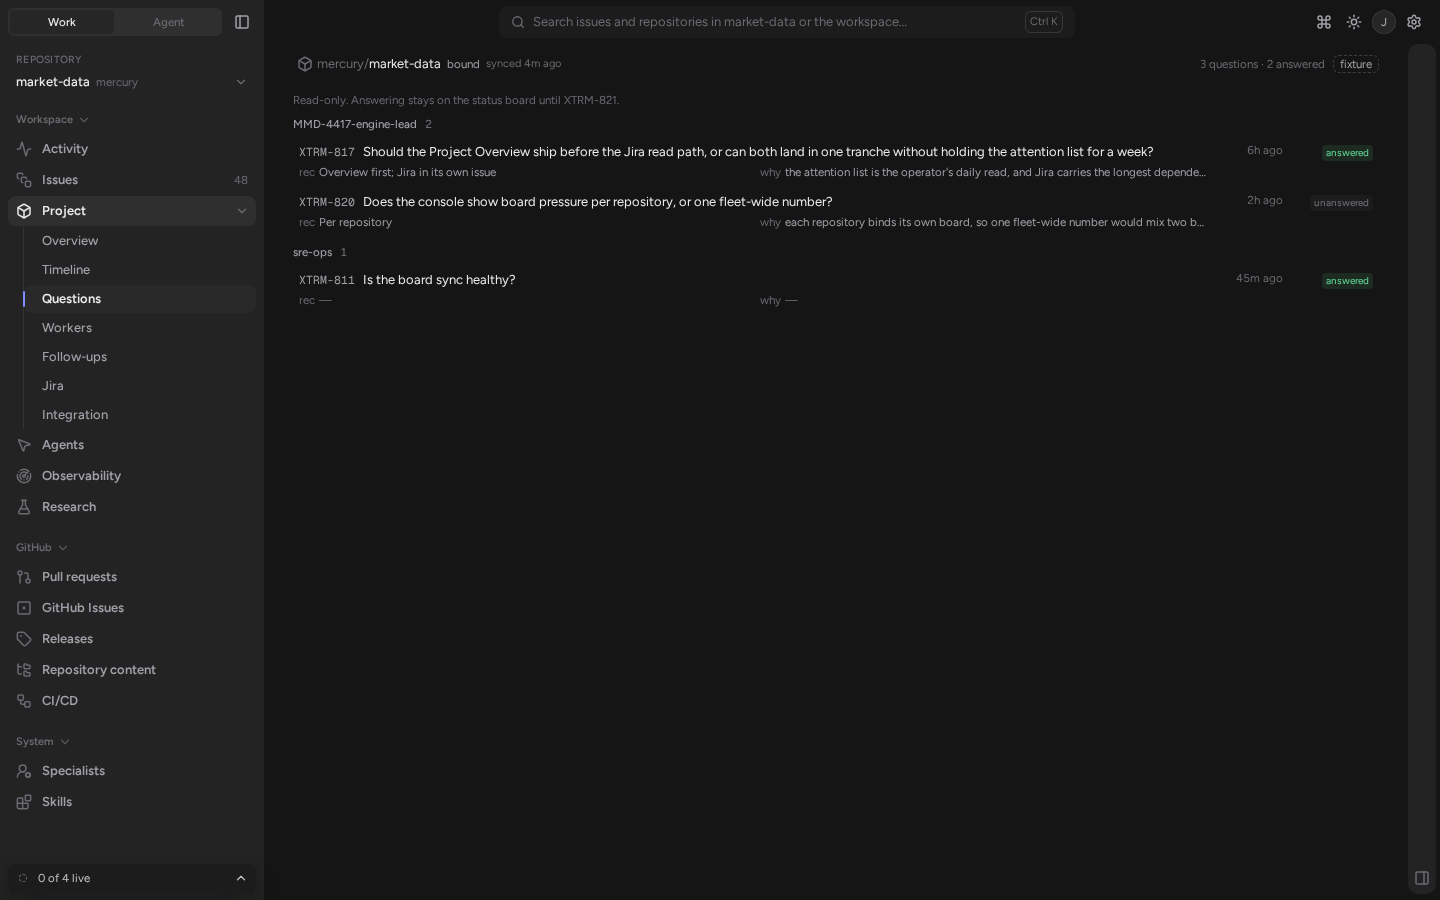
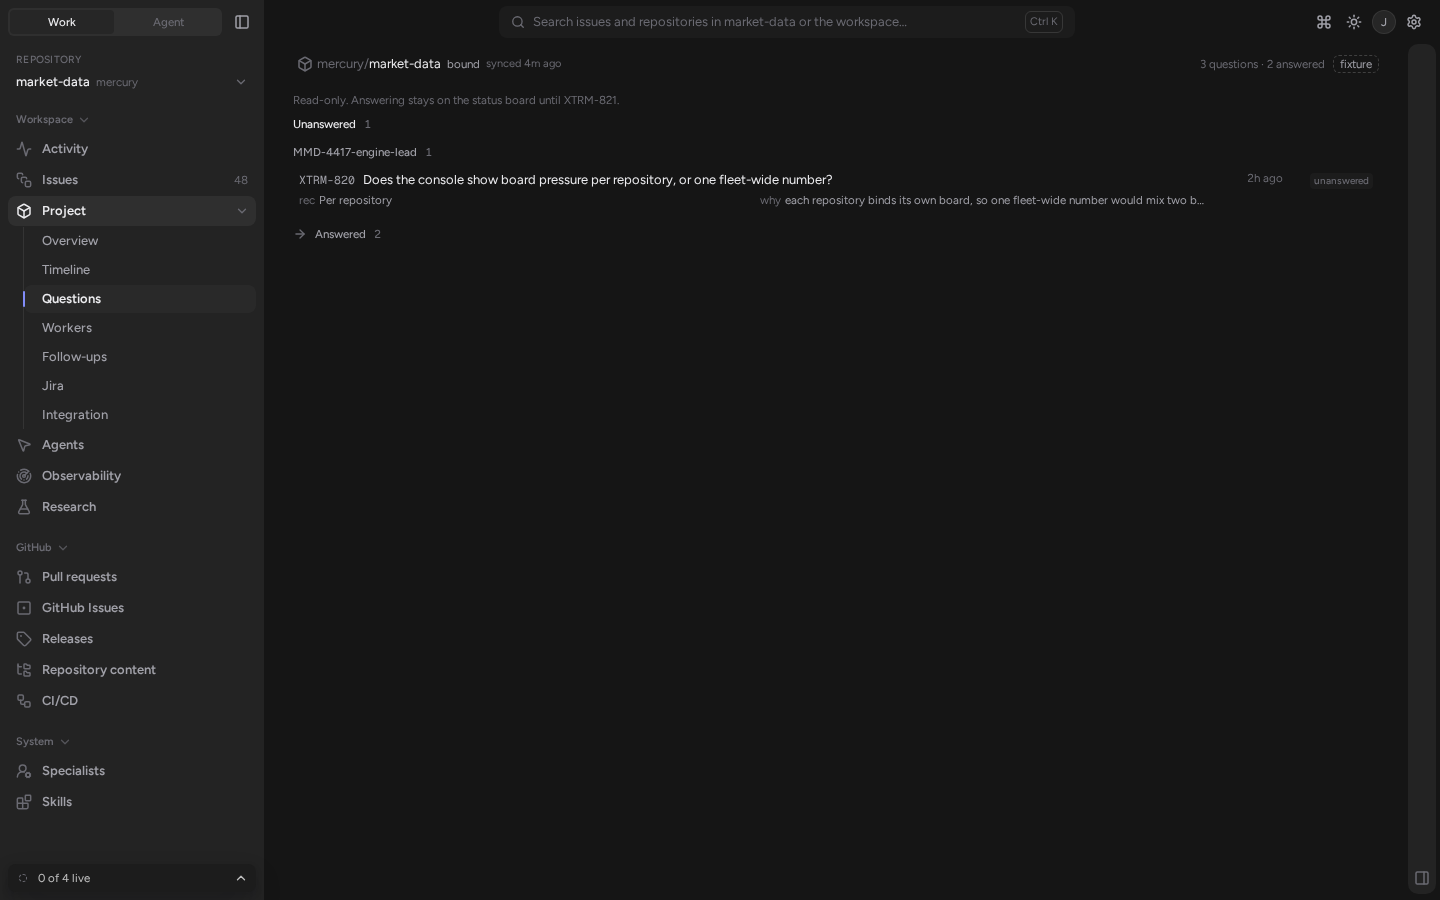
fix(xtrm-app): lead Questions with the unanswered queue, answered backlog collapsed (XTRM-913)
On the deployed console the Questions page listed 68 questions with the 62 answered
ones first, so the operator scrolled past the answered backlog to find the six that
still need an answer.

- The rows are split by `answers/<qid>` presence: the unanswered section leads, open,
  and the answered section follows as a native `<details>` closed by default whose
  summary carries its count.
- Owner grouping is kept inside both sections. The groups are now ordered by their own
  oldest question, so a section reads oldest first (owner name breaks a tie); rows
  inside a group stay oldest first.
- The toolbar count is unchanged: `<n> questions · <m> answered`.
- Tests: the shared fixture is untouched; a test-local board adds three unanswered
  questions under three owners at -10h, -5h and -0.5h, proving cross-owner age order,
  the closed default, the section counts and that the sections carry every row. The
  Playwright screenshot spec screenshots the collapsed page and the opened backlog.

Verified: `npx vitest run src/project` 70/70 pass (12 files); `npx tsc --noEmit` clean;
`npx playwright test e2e/project-questions.spec.ts` 2/2 pass (screenshots regenerated).

Changed region(s): [[0.1875, 0.1244, 0.8438, 0.3111]]

diff --git a/packages/xtrm-app/src/project/questions/QuestionsSurface.test.tsx b/packages/xtrm-app/src/project/questions/QuestionsSurface.test.tsx
@@ -1,14 +1,13 @@
 import { QueryClient } from "@tanstack/react-query";
 import { RouterProvider, createMemoryHistory } from "@tanstack/react-router";
-import { render, screen, waitFor } from "@testing-library/react";
+import { fireEvent, render, screen, waitFor } from "@testing-library/react";
 import { describe, expect, it, vi } from "vitest";
 import { fixtureAdapters } from "../../adapters/index.tsx";
 import { FIXTURE_BOARD_REPO, createStatusBoardFixtureAdapter } from "../../adapters/status-board/fixture.ts";
-import type { StatusBoardAdapter } from "../../adapters/status-board/types.ts";
+import type { BoardRecord, Question, StatusBoardAdapter } from "../../adapters/status-board/types.ts";
 import { createAppRouter } from "../../app/router.tsx";
 
-function renderQuestions() {
-  const board = createStatusBoardFixtureAdapter();
+function renderBoard(board: StatusBoardAdapter) {
   const history = createMemoryHistory({ initialEntries: [`/rep/${FIXTURE_BOARD_REPO}/project/questions`] });
   const queryClient = new QueryClient({ defaultOptions: { queries: { retry: false } } });
   const router = createAppRouter({ adapters: { ...fixtureAdapters, statusBoard: board }, history, queryClient });
@@ -16,8 +15,45 @@ function renderQuestions() {
   return board;
 }
 
+function renderQuestions() {
+  return renderBoard(createStatusBoardFixtureAdapter());
+}
+
+/** A synthetic board question, in the shape the document mapper hands a surface. */
+function question(path: string, doc: Omit<Question, "owner">): BoardRecord<Question> {
+  // `mapQuestionDocument` names the owner from the document's path segment; the surface groups by
+  // `doc.owner`, so a synthetic row carries the same value.
+  return { path, id: `test-${doc.id}`, createdAt: null, updatedAt: null, doc: { ...doc, owner: path.split("/")[1]! }, gaps: [] };
+}
+
+/** The fixture plus three unanswered questions of different ages, under three owners. */
+function olderBoard(): StatusBoardAdapter {
+  const base = createStatusBoardFixtureAdapter();
+  const at = (hours: number) => new Date(Date.now() - hours * 3_600_000).toISOString();
+  const extra = [
+    question("questions/sre-ops", { id: "q-201-oldest", ref: "XTRM-801", q: "Is the oldest open question still open?", at: at(10) }),
+    question("questions/quant-lead", { id: "q-202-mid", ref: "XTRM-802", q: "Is the middle open question still open?", at: at(5) }),
+    question("questions/MMD-4417-engine-lead", { id: "q-203-new", ref: "XTRM-803", q: "Is the newest open question still open?", at: at(0.5) }),
+  ];
+  return {
+    ...base,
+    listQuestions: async (repository, opts) => {
+      const page = await base.listQuestions(repository, opts);
+      return { ...page, records: [...page.records, ...extra] };
+    },
+  };
+}
+
+function sections(): HTMLElement[] {
+  return screen.getAllByTestId("question-section");
+}
+
+function sectionRows(section: HTMLElement): string[] {
+  return Array.from(section.querySelectorAll("[data-question-id]")).map((row) => row.getAttribute("data-question-id") ?? "");
+}
+
 describe("Project Questions", () => {
-  it("renders every board question grouped by owner, with ref, text, recommendation, why and age", async () => {
+  it("leads with the unanswered questions, then the answered group collapsed below", async () => {
     renderQuestions();
     const region = await screen.findByRole("region", { name: "Questions" });
     expect(region.textContent).toContain(FIXTURE_BOARD_REPO);
@@ -26,22 +62,68 @@ describe("Project Questions", () => {
     // owner document with `rows: []` that contributes no group. Every number here is a literal.
     await waitFor(() => expect(screen.getByTestId("questions-count").textContent).toBe("3 questions · 2 answered"));
     expect(screen.getAllByTestId("question-row")).toHaveLength(3);
-    expect(screen.getAllByTestId("question-group").map((group) => group.getAttribute("data-owner"))).toEqual(["MMD-4417-engine-lead", "sre-ops"]);
 
-    const row = screen.getAllByTestId("question-row")[0]!;
-    expect(row.getAttribute("data-question-id")).toBe("q-104-surface-order");
-    expect(row.textContent).toContain("XTRM-817");
-    expect(row.textContent).toContain("Should the Project Overview ship before the Jira read path");
-    expect(row.textContent).toContain("Overview first; Jira in its own issue");
-    expect(row.textContent).toContain("the attention list is the operator's daily read");
-    // The age is relative to now; the fixture's first question is hours old, so it is not "—".
-    expect(screen.getAllByTestId("question-age")[0]!.textContent).toMatch(/ago|just now|\d{4}/);
-    // The longest-waiting question leads its group: 6h old, then 2h old, then the other owner.
+    // Unanswered first, open; the answered backlog below, closed by default and counted.
+    const [unanswered, answered] = sections() as [HTMLElement, HTMLDetailsElement];
+    expect(unanswered.getAttribute("data-section")).toBe("unanswered");
+    expect(answered.getAttribute("data-section")).toBe("answered");
+    expect(answered.open).toBe(false);
+    expect(unanswered.querySelector("[data-testid='question-section-count']")!.textContent).toBe("1");
+    expect(answered.querySelector("summary [data-testid='question-section-count']")!.textContent).toBe("2");
+
+    // Owner grouping stays inside each section: the same owner can appear in both.
+    expect(Array.from(unanswered.querySelectorAll("[data-testid='question-group']")).map((group) => group.getAttribute("data-owner"))).toEqual([
+      "MMD-4417-engine-lead",
+    ]);
+    expect(Array.from(answered.querySelectorAll("[data-testid='question-group']")).map((group) => group.getAttribute("data-owner"))).toEqual([
+      "MMD-4417-engine-lead",
+      "sre-ops",
+    ]);
+
+    // The unanswered row is the operator's work and reads first; inside a group the
+    // longest-waiting question leads.
     expect(screen.getAllByTestId("question-row").map((item) => item.getAttribute("data-question-id"))).toEqual([
-      "q-104-surface-order",
       "q-104-board-pressure",
+      "q-104-surface-order",
       "q-105-sync-health",
     ]);
+
+    const row = screen.getAllByTestId("question-row")[0]!;
+    expect(row.textContent).toContain("XTRM-820");
+    expect(row.textContent).toContain("Does the console show board pressure per repository");
+    expect(row.textContent).toContain("Per repository");
+    expect(row.textContent).toContain("each repository binds its own board");
+    // The age is relative to now; the fixture's first question is hours old, so it is not "—".
+    expect(screen.getAllByTestId("question-age")[0]!.textContent).toMatch(/ago|just now|\d{4}/);
+  });
+
+  it("orders the unanswered section oldest first across owners and opens the answered backlog on demand", async () => {
+    renderBoard(olderBoard());
+    await screen.findByRole("region", { name: "Questions" });
+    await waitFor(() => expect(screen.getByTestId("questions-count").textContent).toBe("6 questions · 2 answered"));
+
+    const [unanswered, answered] = sections() as [HTMLElement, HTMLDetailsElement];
+    // Oldest-first across owners: -10h (sre-ops), -5h (quant-lead), then the MMD group with its
+    // -2h and -30m rows. Alphabetical owner order would read MMD first; age order does not.
+    expect(Array.from(unanswered.querySelectorAll("[data-testid='question-group']")).map((group) => group.getAttribute("data-owner"))).toEqual([
+      "sre-ops",
+      "quant-lead",
+      "MMD-4417-engine-lead",
+    ]);
+    expect(sectionRows(unanswered)).toEqual(["q-201-oldest", "q-202-mid", "q-104-board-pressure", "q-203-new"]);
+    expect(unanswered.querySelector("[data-testid='question-section-count']")!.textContent).toBe("4");
+
+    // Answered stays closed by default, with its count; expanding it reveals its rows in the same
+    // oldest-first owner grouping.
+    expect(answered.open).toBe(false);
+    expect(answered.querySelector("summary [data-testid='question-section-count']")!.textContent).toBe("2");
+    expect(sectionRows(answered)).toEqual(["q-104-surface-order", "q-105-sync-health"]);
+    fireEvent.click(answered.querySelector("summary")!);
+    expect(answered.open).toBe(true);
+
+    // The sections together carry every row, and the toolbar counts are unchanged.
+    expect(screen.getAllByTestId("question-row")).toHaveLength(6);
+    expect(sectionRows(unanswered).length + sectionRows(answered).length).toBe(6);
   });
 
   it("states answered/unanswered from the answers/<qid> records, not from a guess", async () => {
@@ -74,10 +156,7 @@ describe("Project Questions", () => {
         return { ...page, records: page.records.slice(0, 1), truncated: true, gaps: [{ path: "questions/odd", field: "id", value: "<absent>" }] };
       },
     };
-    const history = createMemoryHistory({ initialEntries: [`/rep/${FIXTURE_BOARD_REPO}/project/questions`] });
-    const queryClient = new QueryClient({ defaultOptions: { queries: { retry: false } } });
-    const router = createAppRouter({ adapters: { ...fixtureAdapters, statusBoard: truncated }, history, queryClient });
-    render(<RouterProvider router={router} />);
+    renderBoard(truncated);
 
     await screen.findByRole("region", { name: "Questions" });
     await waitFor(() => expect(screen.getByTestId("questions-caveat").textContent).toContain("Incomplete read"));
@@ -99,8 +178,11 @@ describe("Project Questions", () => {
     expect(fetchSpy).not.toHaveBeenCalled();
     fetchSpy.mockRestore();
 
-    // The read is the binding, the health and the two collections; no record write follows.
+    // The read is the binding, the health and the two collections; no record write follows. The
+    // answered disclosure is a native <details>, so opening it still writes nothing.
     const writes = vi.spyOn(board, "record");
+    const answered = sections()[1]!;
+    fireEvent.click(answered.querySelector("summary")!);
     await waitFor(() => expect(screen.getByTestId("questions-list")).toBeTruthy());
     expect(writes).not.toHaveBeenCalled();
     writes.mockRestore();

diff --git a/packages/xtrm-app/src/project/questions/QuestionsSurface.tsx b/packages/xtrm-app/src/project/questions/QuestionsSurface.tsx
@@ -3,15 +3,21 @@ import type { ReactNode } from "react";
 import { useAdapters } from "../../adapters/index.tsx";
 import type { Answer, BoardRecord, Question } from "../../adapters/status-board/types.ts";
 import { useShell } from "../../shell/context.tsx";
+import { Icon } from "../../ui/icon.tsx";
 import { ErrorState, LoadingState } from "../../ui/primitives.tsx";
 import { IntegrationState } from "../IntegrationState.tsx";
 import { ProjectShell } from "../ProjectShell.tsx";
 import { QuestionRow } from "./QuestionRow.tsx";
 
 /**
- * Project Questions (ADR-002 D2, XTRM-899): the board's open questions, grouped by the owner
+ * Project Questions (ADR-002 D2, XTRM-899, XTRM-913): the board's open questions, split into the
+ * ones that still need an answer and the ones that already have one, each grouped by the owner
  * whose `questions/<owner>` document carries them, each with its ref, text, recommendation, why,
  * age and whether an `answers/<qid>` record exists.
+ *
+ * The unanswered section leads: it is the operator's work, so it stays open. The answered section
+ * follows, collapsed by default with its count, so a board that is mostly answered does not push
+ * the open questions off the first screen. Both sections keep the owner grouping.
  *
  * Read-only for this tranche: answering stays on the status board until XTRM-821. The surface
  * therefore offers no control that writes, and the state line says where the answer goes.
@@ -28,20 +34,27 @@ function questionAt(question: Question): number {
   return Number.isFinite(parsed) ? parsed : Number.POSITIVE_INFINITY;
 }
 
+/** The owner document the board filed the question under, or the fallback the list states. */
+function ownerOf(question: Question): string {
+  return question.owner ?? question.by ?? "no owner";
+}
+
 /**
- * Group by the owner document the board filed the question under. Owners sort by name so the
- * list is stable between reads; inside a group the longest-waiting question comes first (the same
- * oldest-first reading the Overview attention list uses for unanswered questions).
+ * Group by the owner document the board filed the question under. Inside a group the
+ * longest-waiting question comes first (the same oldest-first reading the Overview attention list
+ * uses for unanswered questions); the groups themselves are ordered by their own oldest question,
+ * so a section reads oldest first while the owner grouping stays intact. A tie falls back to the
+ * owner name, which keeps the order stable between reads.
  */
 function groupQuestions(questions: ReadonlyArray<Question>): QuestionGroup[] {
   const buckets = new Map<string, Question[]>();
   for (const question of questions) {
-    const owner = question.owner ?? question.by ?? "no owner";
+    const owner = ownerOf(question);
     buckets.set(owner, [...(buckets.get(owner) ?? []), question]);
   }
   return [...buckets.entries()]
-    .sort(([a], [b]) => a.localeCompare(b))
-    .map(([owner, rows]) => ({ owner, rows: rows.sort((a, b) => questionAt(a) - questionAt(b) || a.id.localeCompare(b.id)) }));
+    .map(([owner, rows]) => ({ owner, rows: rows.sort((a, b) => questionAt(a) - questionAt(b) || a.id.localeCompare(b.id)) }))
+    .sort((a, b) => questionAt(a.rows[0]!) - questionAt(b.rows[0]!) || a.owner.localeCompare(b.owner));
 }
 
 /** The question ids the board has an `answers/<qid>` record for. */
@@ -49,6 +62,29 @@ function answeredQids(answers: ReadonlyArray<BoardRecord<Answer>>): Set<string> 
   const qids = new Set<string>();
   for (const answer of answers) if (answer.doc.qid) qids.add(answer.doc.qid);
   return qids;
+}
+
+/** One section's owner groups; the section supplies the split, the ordering and the state. */
+function QuestionGroups({ groups, answered }: { groups: ReadonlyArray<QuestionGroup>; answered: boolean }) {
+  return (
+    <>
+      {groups.map((group) => (
+        <section key={group.owner} aria-label={`Owner ${group.owner}`} data-testid="question-group" data-owner={group.owner}>
+          <h4 className="flex items-baseline gap-2 px-1.5 pt-2 pb-1 text-xs font-medium text-ink-muted">
+            <span className="truncate">{group.owner}</span>
+            <span className="shrink-0 text-xs text-ink-faint tabular" data-testid="question-group-count">
+              {group.rows.length}
+            </span>
+          </h4>
+          <ul className="flex flex-col">
+            {group.rows.map((question) => (
+              <QuestionRow key={question.id} question={question} answered={answered} />
+            ))}
+          </ul>
+        </section>
+      ))}
+    </>
+  );
 }
 
 export function QuestionsSurface() {
@@ -65,8 +101,12 @@ export function QuestionsSurface() {
 
   const rows = (questions.data?.records ?? []).map((record) => record.doc);
   const answered = answeredQids(answers.data?.records ?? []);
-  const groups = groupQuestions(rows);
-  const answeredCount = rows.filter((question) => answered.has(question.id)).length;
+  const unansweredRows = rows.filter((question) => !answered.has(question.id));
+  const answeredRows = rows.filter((question) => answered.has(question.id));
+  const unansweredGroups = groupQuestions(unansweredRows);
+  const answeredGroups = groupQuestions(answeredRows);
+  const answeredCount = answeredRows.length;
+  const ownerCount = new Set(rows.map(ownerOf)).size;
 
   // A bounded read and an unreadable record both make the list incomplete; the page says so
   // instead of presenting a short page as the whole board.
@@ -83,7 +123,7 @@ export function QuestionsSurface() {
       health={bound ? (health.data ?? null) : null}
       source={statusBoard.source}
       toolbar={
-        <span className="text-xs text-ink-faint" data-testid="questions-count" title={`${groups.length} owners carry an open question`}>
+        <span className="text-xs text-ink-faint" data-testid="questions-count" title={`${ownerCount} owners carry an open question`}>
           {rows.length} questions · {answeredCount} answered
         </span>
       }
@@ -108,22 +148,32 @@ export function QuestionsSurface() {
           Incomplete read: {caveats.join("; ")}.
         </p>
       )}
-      {groups.length === 0 && <p className="px-1.5 py-2 text-xs text-ink-faint">No open questions on this board.</p>}
-      {groups.map((group) => (
-        <section key={group.owner} aria-label={`Owner ${group.owner}`} data-testid="question-group" data-owner={group.owner}>
-          <h3 className="flex items-baseline gap-2 px-1.5 pt-2 pb-1 text-xs font-medium text-ink-muted">
-            <span className="truncate">{group.owner}</span>
-            <span className="shrink-0 text-xs text-ink-faint tabular" data-testid="question-group-count">
-              {group.rows.length}
+      {rows.length === 0 && <p className="px-1.5 py-2 text-xs text-ink-faint">No open questions on this board.</p>}
+      {unansweredGroups.length > 0 && (
+        <section aria-label="Unanswered questions" data-testid="question-section" data-section="unanswered">
+          <h3 className="flex items-baseline gap-2 px-1.5 pt-2 pb-1 text-xs font-medium text-ink">
+            <span className="truncate">Unanswered</span>
+            <span className="shrink-0 text-xs text-ink-faint tabular" data-testid="question-section-count">
+              {unansweredRows.length}
             </span>
           </h3>
-          <ul className="flex flex-col">
-            {group.rows.map((question) => (
-              <QuestionRow key={question.id} question={question} answered={answered.has(question.id)} />
-            ))}
-          </ul>
+          <QuestionGroups groups={unansweredGroups} answered={false} />
         </section>
-      ))}
+      )}
+      {answeredGroups.length > 0 && (
+        // Native disclosure: closed by default, so the answered backlog never pushes the open
+        // questions below the first screen; the summary names the count the reader would find.
+        <details data-testid="question-section" data-section="answered" className="group">
+          <summary className="flex cursor-pointer list-none items-baseline gap-2 px-1.5 pt-3 pb-1 text-xs font-medium text-ink-muted outline-none select-none hover:text-ink focus-visible:text-ink">
+            <Icon name="forward" size="xs" className="shrink-0 self-center text-ink-faint transition-transform group-open:rotate-90 motion-reduce:transition-none" />
+            <span className="truncate">Answered</span>
+            <span className="shrink-0 text-xs text-ink-faint tabular" data-testid="question-section-count">
+              {answeredRows.length}
+            </span>
+          </summary>
+          <QuestionGroups groups={answeredGroups} answered={true} />
+        </details>
+      )}
     </div>,
   );
 }

diff --git a/packages/xtrm-app/e2e/project-questions.spec.ts b/packages/xtrm-app/e2e/project-questions.spec.ts
@@ -1,6 +1,6 @@
 import { expect, test, type Page } from "@playwright/test";
 
-// Review screenshots of the read-only Questions surface (XTRM-899), light and dark.
+// Review screenshots of the read-only Questions surface (XTRM-899, XTRM-913), light and dark.
 // The status-board fixture carries two owner documents with question rows, one owner document
 // without an open question, and answers keyed by question id, so both answered states render.
 const OUT = "docs/screenshots/project-questions";
@@ -16,26 +16,46 @@ for (const t of ["light", "dark"] as const) {
     await page.goto("/rep/mercury/market-data/project/questions");
     await expect(page.getByRole("region", { name: "Questions", exact: true })).toBeVisible();
     await expect(page.getByTestId("questions-read-only")).toBeVisible();
-    await expect(page.getByTestId("question-row").first()).toBeVisible();
     await expect(page.getByTestId("questions-count")).toHaveText("3 questions · 2 answered");
 
-    // The list is grouped by owner document, and each row prints its ref, text, recommendation,
-    // why, age and answered state. An owner document with `rows: []` contributes no group.
-    await expect(page.getByTestId("question-group")).toHaveCount(2);
+    // XTRM-913: the unanswered question leads, open; the answered backlog follows as a closed
+    // disclosure that carries its own count. Both keep the owner grouping, so an owner can appear
+    // in both sections and the group count is one more than the owner count.
+    const unanswered = page.locator('[data-section="unanswered"]');
+    const answered = page.locator('[data-section="answered"]');
+    await expect(unanswered.getByTestId("question-section-count")).toHaveText("1");
+    await expect(answered.locator("summary").getByTestId("question-section-count")).toHaveText("2");
+    await expect(answered).not.toHaveAttribute("open");
+    await expect(unanswered.getByTestId("question-group")).toHaveCount(1);
+    await expect(unanswered.getByTestId("question-row")).toHaveCount(1);
+    await expect(page.getByTestId("question-group")).toHaveCount(3);
     await expect(page.getByTestId("question-row")).toHaveCount(3);
-    await expect(page.getByTestId("question-row").first().getByTestId("question-state")).toHaveText("answered");
-    await expect(page.getByTestId("question-row").nth(1).getByTestId("question-state")).toHaveText("unanswered");
+
+    // Each row prints its ref, text, recommendation, why, age and answered state; the open
+    // question is the row the operator can act on.
+    await expect(unanswered.getByTestId("question-row").first()).toBeVisible();
+    await expect(unanswered.getByTestId("question-row").first().getByTestId("question-state")).toHaveText("unanswered");
     for (const id of ["question-text", "question-rec", "question-why", "question-age"]) {
-      await expect(page.getByTestId("question-row").first().getByTestId(id)).not.toBeEmpty();
+      await expect(unanswered.getByTestId("question-row").first().getByTestId(id)).not.toBeEmpty();
     }
+    // The closed disclosure renders no answered row.
+    await expect(answered.getByTestId("question-row").first()).toBeHidden();
 
     // The sidebar entry is a live destination now: no deferred marker on its nav item.
     await expect(page.locator('nav [role="button"]', { hasText: /^Questions$/ }).first()).not.toHaveAttribute("data-deferred", "true");
 
-    // Restraint: one coloured element per row — the answered badge. The ref is a reference chip,
-    // never a second state chip.
-    expect(await page.getByTestId("question-row").first().locator("[class*='bg-success']").count()).toBe(1);
+    // Restraint: one coloured element per row. The unanswered badge is muted (no success fill),
+    // and the ref is a reference chip, never a second state chip.
+    expect(await unanswered.getByTestId("question-row").first().locator("[class*='bg-success']").count()).toBe(0);
 
     await page.screenshot({ path: `${OUT}/${t}-questions.png` });
+
+    // The answered backlog opens on demand; the answered row's badge is its one coloured element.
+    await answered.locator("summary").click();
+    await expect(answered).toHaveAttribute("open", "");
+    await expect(answered.getByTestId("question-row")).toHaveCount(2);
+    await expect(answered.getByTestId("question-row").first().getByTestId("question-state")).toHaveText("answered");
+    expect(await answered.getByTestId("question-row").first().locator("[class*='bg-success']").count()).toBe(1);
+    await page.screenshot({ path: `${OUT}/${t}-questions-answered.png` });
   });
 }
